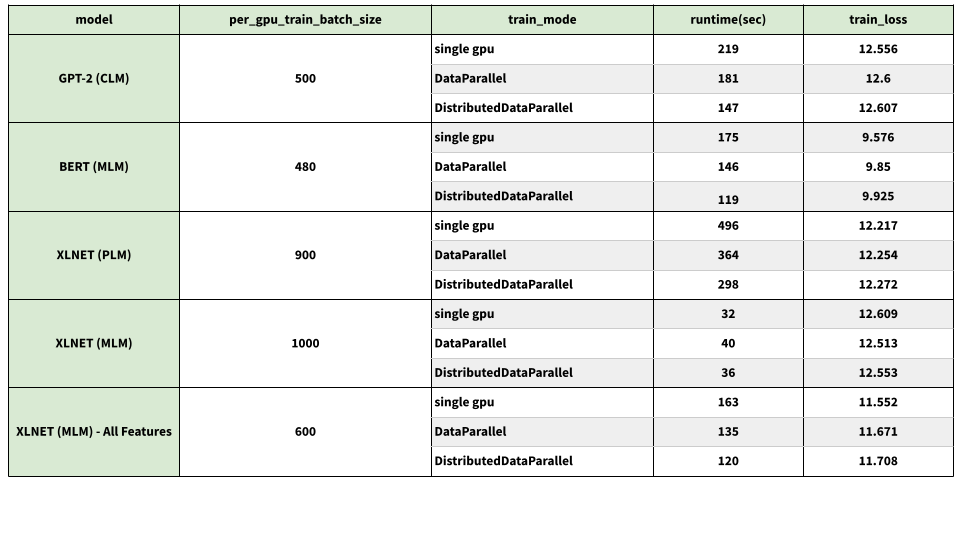
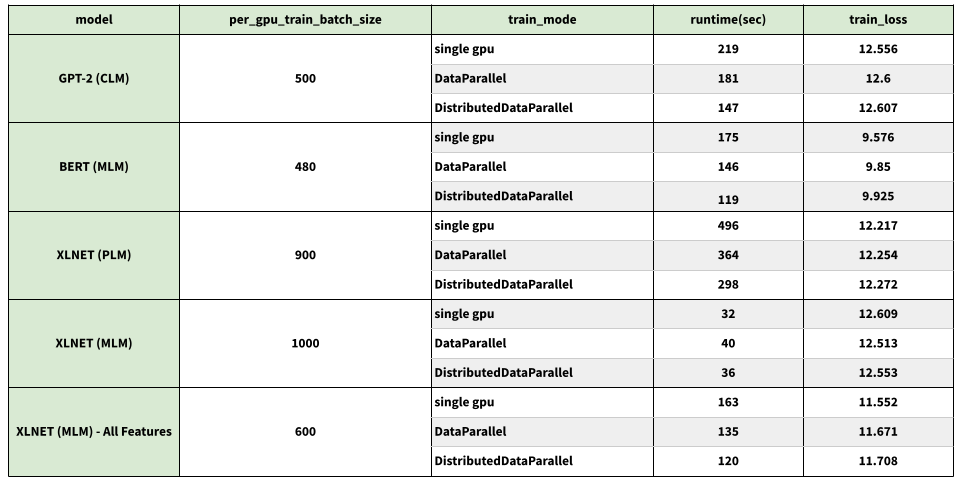
cropped the perf table and addressed commnets left from previous PR

diff --git a/docs/source/multi_gpu_train.md b/docs/source/multi_gpu_train.md
@@ -52,3 +52,5 @@ We trained and evaluated a number of models using single GPU, `DataParallel` and
 <img src="_images/DP_DDP_perf.png" alt="Performance comparison of diffrerent training modes" style="width:800px;display:block;margin-left:auto;margin-right:auto;"/><br>
 
 These experiments used a machine with 2 <i>Tesla V100-SXM2-32GB-LS</i> GPUs.
+
+<b>Note:</b> Using Data-Parallel training can impact metrics such at NDCG and recall. Therefore, Users are advised to tune the learning rate for better accuracy.
